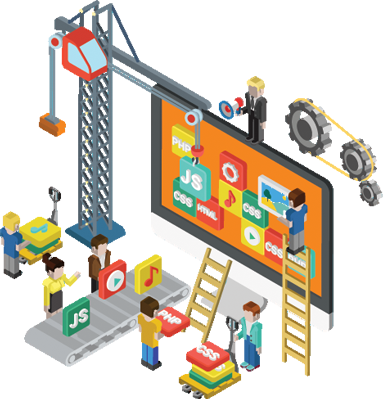
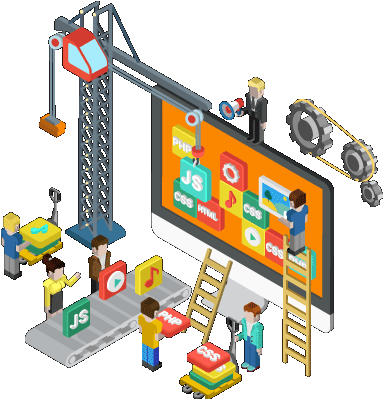
retina version for main image, and added greensock sample to sandbox

diff --git a/sandbox/logoMove.html b/sandbox/logoMove.html
@@ -1,0 +1,107 @@
+<html>
+<head>
+<style>
+html, body {
+  height: 100%;
+}
+body {
+  background-color: #262626;
+  font-family: 'Open Sans', sans-serif;
+  overflow: hidden;
+}
+h1 {
+  font-size: 16px;
+  color: #838484;
+  font-weight: 300;
+  text-align: center;
+  color: #89c540;
+  position: absolute;
+  padding: 10px 20px;
+  border: 1px solid transparentize(white, .7);
+}
+
+#logo {
+  position: absolute;
+  top: 50%;
+  left: 50%;
+  width: 80px;
+  height: 80px;
+  transform: translate(-50%, -50%);
+  z-index: 1;
+}
+
+.box {
+  height: 20px;
+  width: 20px;
+  position: absolute;
+}
+
+.boxBlack {
+  background-color: #333;
+  left: 20px;
+  top: 20px;
+}
+.boxCyan {
+  background-color: #41a7bf;
+  left: 40px;
+  top: 20px;
+}
+.boxRed {
+  background-color: #b20b23;
+  left: 20px;
+  top: 40px;
+}
+.boxGreen {
+  background-color: #6b7e28;
+  left: 40px;
+  top: 40px;
+}
+</style>
+</head>
+<body>
+
+<h1><strong>Socha Dev</strong> - Simple Animated Logo Proof of Concept</h1>
+
+<div id="logo">
+  <div class="box boxBlack"></div>
+  <div class="box boxCyan"></div>
+  <div class="box boxRed"></div>
+  <div class="box boxGreen"></div>
+</div>
+
+<script src="https://ajax.googleapis.com/ajax/libs/jquery/2.2.0/jquery.min.js"></script>
+<script src="https://cdnjs.cloudflare.com/ajax/libs/gsap/1.18.2/TweenLite.min.js"></script>
+<script src="https://cdnjs.cloudflare.com/ajax/libs/gsap/1.18.2/easing/EasePack.min.js"></script>
+<script src="https://cdnjs.cloudflare.com/ajax/libs/gsap/1.18.2/plugins/CSSPlugin.min.js"></script>
+
+<script>
+
+var $box = $('#logo');
+var $boxblack = $('.boxBlack');
+var $boxblue = $('.boxCyan');
+var $boxred = $('.boxRed');
+var $boxgreen = $('.boxGreen');
+
+// set up initial anim
+swizz();
+
+//Repeater
+x = window.setInterval(swizz, 2200);
+
+function swizz() {
+  TweenLite.to($boxblack, 0.5, {rotation: 180, height: 80, x: '-=20', y: '-=20', ease:Power4.easeInOut});
+  TweenLite.to($boxblue, 0.5, {rotation: -180, height: 80, x: '-=20', y: '-=20', delay: 0.1, ease:Power4.easeInOut});
+  TweenLite.to($boxred, 0.2, {rotation: 180, x: '+=20', y: '-=40', height: 80, delay: 0.1});
+  TweenLite.to($boxgreen, 0.2, {rotation: -180, x: '+=20', y: '-=40', height: 80, delay: 0.2});
+
+  TweenLite.to($boxblack, 0.5, {rotation: 0, height: 20, x: '+=20', y: '+=20', delay: 1, ease:Power4.easeInOut});
+  TweenLite.to($boxblue, 0.5, {rotation: 0,  height: 20, x: '+=20', y: '+=20', delay: 1.1, ease:Power4.easeInOut});
+  TweenLite.to($boxred, 0.2, {rotation: 0, x: '-=20', y: '+=40', height: 20, delay: 1.1});
+  TweenLite.to($boxgreen, 0.2, {rotation: 0, x: '-=20', y: '+=40', height: 20, delay: 1.2});
+}
+
+
+</script>
+
+</body>
+</html>
